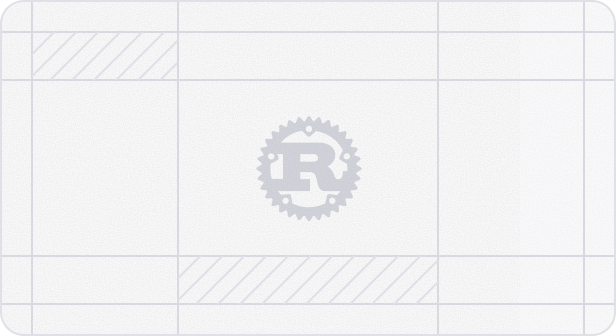
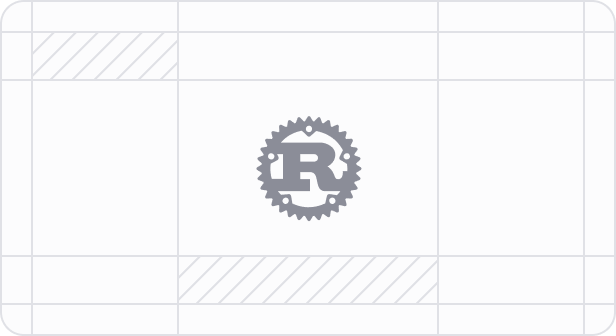
feat: added dark mode

Changed region(s): [[0.401, 0.3274, 0.586, 0.6548]]

diff --git a/footer/src/FernFooter.tsx b/footer/src/FernFooter.tsx
@@ -278,9 +278,9 @@ export const FernFooter: React.FC = () => {
             <div className="footer-column">
               <h4 className="footer-column-title">Documentation</h4>
               <div className="footer-column-links">
-                <a href="/openapi/getting-started/overview" className="footer-link">OpenAPI Compatibility</a>
+                <a href="/api-definition/introduction/what-is-an-api-definition" className="footer-link">API Definition</a>
                 <a href="/sdks/overview/introduction" className="footer-link">SDKs</a>
-                <a href="docs/getting-started/overview" className="footer-link">Docs</a>
+                <a href="/docs/getting-started/overview" className="footer-link">Docs</a>
               </div>
             </div>
 
